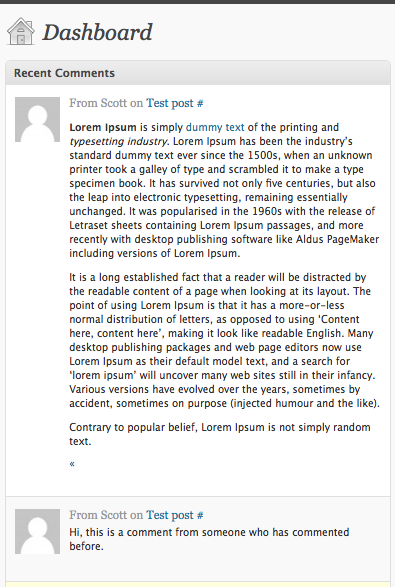
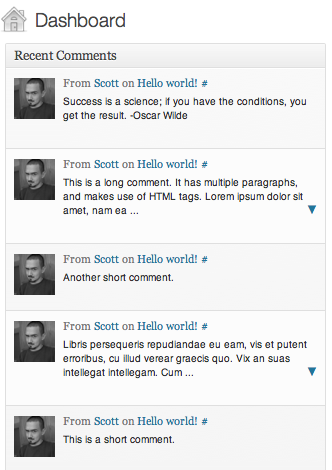
Release v1.5:
* Change characters used to expand/collapse excerpt
* Change positioning of expand/collapse link
* Enqueue CSS
* Enqueue JS
* Add `register_styles()`, enqueue_admin_css()`, `enqueue_admin_js()`
* Remove `add_css()`, `add_js()`
* Add support for localization
* Add .pot
* No longer hide the ellipsis
* Hook 'load-index.php' action to initialize plugin rather than checking pagenow
* Add `version()` to return plugin version
* Minor code reformatting (spacing)
* Note compatibility through WP 3.3+
* Drop support for versions of WP older than 3.1
* Update screenshots (now based on WP 3.3)
* Add link to plugin directory page to readme.txt
* Update copyright date (2012)

diff --git a/assets/admin.js b/assets/admin.js
@@ -1,0 +1,9 @@
+if (jQuery) {
+	jQuery(document).ready(function($) {
+		$('.c2c_edrc_more a').show();
+		$('.c2c_edrc_more a, .c2c_edrc_less a').click(function(e) {
+			$(this).closest('.c2c_edrc').find('div.excerpt-short, div.excerpt-full').toggle();
+			e.preventDefault();
+		})
+	});
+}

diff --git a/assets/admin.css b/assets/admin.css
@@ -1,0 +1,4 @@
+#the-comment-list .comment-item blockquote .excerpt-full p { display:block; margin:0 0 1em; }
+.c2c_edrc { display:block; position:relative;}
+.c2c_edrc_more { display:none; }
+.c2c_edrc_more, .c2c_edrc_less { display:block;text-align:center;float:right; }

diff --git a/expandable-dashboard-recent-comments.php b/expandable-dashboard-recent-comments.php
@@ -2,17 +2,19 @@
 /**
  * @package Expandable_Dashboard_Recent_Comments
  * @author Scott Reilly
- * @version 1.3.1
+ * @version 1.5
  */
 /*
 Plugin Name: Expandable Dashboard Recent Comments
-Version: 1.3.1
+Version: 1.5
 Plugin URI: http://coffee2code.com/wp-plugins/expandable-dashboard-recent-comments/
 Author: Scott Reilly
-Author URI: http://coffee2code.com
+Author URI: http://coffee2code.com/
+Text Domain: expandable-dashboard-recent-comments
+Domain Path: /lang/
 Description: Adds the ability to do in-place expansion of comment excerpts on the admin dashboard 'Recent Comments' widget to view full comments.
 
-Compatible with WordPress 2.6+, 2.7+, 2.8+, 2.9+, 3.0+, 3.1+, 3.2+.
+Compatible with WordPress 3.1+, 3.2+, 3.3+
 
 =>> Read the accompanying readme.txt file for instructions and documentation.
 =>> Also, visit the plugin's homepage for additional information and updates.
@@ -24,7 +26,7 @@ TODO:
 */
 
 /*
-Copyright (c) 2009-2011 by Scott Reilly (aka coffee2code)
+Copyright (c) 2009-2012 by Scott Reilly (aka coffee2code)
 
 Permission is hereby granted, free of charge, to any person obtaining a copy of this software and associated documentation
 files (the "Software"), to deal in the Software without restriction, including without limitation the rights to use, copy,
@@ -44,42 +46,68 @@ if ( is_admin() && ! class_exists( 'c2c_ExpandableDashboardRecentComments' ) ) :
 class c2c_ExpandableDashboardRecentComments {
 	// This just defines the default config. Values can be filtered via the filter 'c2c_expandable_dashboard_recent_comments_config'
 	public static $config = array(
-		'remove-ellipsis' => false,
-		'more-text' => ' &raquo;',
-		'less-text' => ' &laquo;'
+		'more-text' => '&#x25bc;',
+		'less-text' => '&#x25b2;'
 	);
+
+	/**
+	 * Returns version of the plugin.
+	 *
+	 * @since 1.5
+	 */
+	public static function version() {
+		return '1.5';
+	}
 
 	/**
 	 * Class constructor: initializes class variables and adds actions and filters.
 	 */
 	public static function init() {
-		global $pagenow;
-		if ( 'index.php' == $pagenow )
-			add_action( 'admin_init', array( __CLASS__, 'do_init' ) );
+		add_action( 'load-index.php', array( __CLASS__, 'do_init' ) );
 	}
 
 	/**
 	 * Initialize the config and register actions/filters
 	 */
 	public static function do_init() {
+		load_plugin_textdomain( 'c2c_edrc', false, basename( dirname( __FILE__ ) ) . DIRECTORY_SEPARATOR . 'lang' );
 		self::$config = apply_filters( 'c2c_expandable_dashboard_recent_comments_config', self::$config );
-		add_action( 'admin_print_styles',         array( __CLASS__, 'add_css' ) );
-		add_action( 'admin_print_footer_scripts', array( __CLASS__, 'add_js' ) );
+
+		// Hook the comment excerpt to do our magic
 		add_filter( 'comment_excerpt',            array( __CLASS__, 'expandable_comment_excerpts' ) );
+		// Enqueues JS for admin page
+		add_action( 'admin_enqueue_scripts',      array( __CLASS__, 'enqueue_admin_js' ) );
+		// Register and enqueue styles for admin page
+		self::register_styles();
+		add_action( 'admin_enqueue_scripts',      array( __CLASS__, 'enqueue_admin_css' ) );
 	}
 
 	/**
-	 * Echoes the CSS for this plugin within style tags
+	 * Registers styles.
 	 *
+	 * @since 1.5
 	 */
-	public static function add_css() {
-		echo <<<CSS
-		<style type="text/css">
-		#the-comment-list .comment-item blockquote .excerpt-full p { display:block; margin:1em 0; }
-		#dashboard_recent_comments .excerpt-short a { display:none; }
-		</style>
+	public static function register_styles() {
+		wp_register_style( __CLASS__, plugins_url( 'assets/admin.css', __FILE__ ) );
+	}
 
-CSS;
+	/**
+	 * Enqueues stylesheets.
+	 *
+	 * @since 1.5
+	 */
+	public static function enqueue_admin_css() {
+		wp_enqueue_style( __CLASS__ );
+	}
+
+	/**
+	 * Enqueues JS.
+	 *
+	 * @since 1.5
+	 */
+	public static function enqueue_admin_js() {
+		wp_enqueue_script( 'jquery' );
+		wp_enqueue_script( __CLASS__, plugins_url( 'assets/admin.js', __FILE__ ), array( 'jquery' ), self::version(), true );
 	}
 
 	/**
@@ -90,34 +118,11 @@ CSS;
 	 * @return string The class
 	 */
 	private static function get_comment_class( $comment_id = null ) {
-		if ( !$comment_id ) {
+		if ( ! $comment_id ) {
 			global $comment;
 			$comment_id = $comment->comment_ID;
 		}
 		return "excerpt-$comment_id";
-	}
-
-	/**
-	 * Echoes the JS for this plugin within script tags
-	 *
-	 * @since 1.3
-	 */
-	public static function add_js() {
-			echo <<<JS
-		<script type="text/javascript">
-		if (jQuery) {
-			jQuery(document).ready(function($) {
-				$('.excerpt-ellipsis').hide();
-				$('#dashboard_recent_comments div.excerpt-short a').show();
-				$('#dashboard_recent_comments div.excerpt-short a, #dashboard_recent_comments div.excerpt-full a').click(function() {
-					$(this).parent().parent().find('div.excerpt-short, div.excerpt-full').toggle();
-					return false;
-				})
-			});
-		}
-		</script>
-
-JS;
 	}
 
 	/**
@@ -129,15 +134,29 @@ JS;
 	public static function expandable_comment_excerpts( $excerpt ) {
 		global $comment;
 		if ( substr( $excerpt, -3 ) == '...' ) {
-			$body = apply_filters( 'comment_text', apply_filters( 'get_comment_text', $comment->comment_content ), '40' );
-			$class = self::get_comment_class( $comment->comment_ID );
-			$extended = self::$config['remove-ellipsis'] ? '<span class="excerpt-ellipsis">...</span>' : ''; // Will only be seen if JS is disabled
-			$extended .= "<div class='{$class}-short excerpt-short'>" .
-				( self::$config['remove-ellipsis'] ? substr( $excerpt, 0, -3 ) : $excerpt ) .
-				"<a href='#' title='" . __( 'Show full comment' ) . "'>" . self::$config['more-text'] . '</a></div>' .
-				"<div class='{$class}-full excerpt-full' style='display:none;'>" .
-				$body . 
-				" <a href='#' title='" . __( 'Show excerpt' ) . "'>" . self::$config['less-text'] . '</a></div>';
+			$body       = apply_filters( 'comment_text', apply_filters( 'get_comment_text', $comment->comment_content ), '40' );
+			$class      = self::get_comment_class( $comment->comment_ID );
+//			$ellipsis   = self::$config['remove-ellipsis'] ? '<span class="excerpt-ellipsis">&hellip;</span>' : '';
+//			$_excerpt   = self::$config['remove-ellipsis'] ? substr( $excerpt, 0, -3 ) : $excerpt;
+			$more       = self::$config['more-text'];
+			$more_title = __( 'Show full comment', 'c2c_edrc' );
+			$less       = self::$config['less-text'];
+			$less_title = __( 'Show excerpt', 'c2c_edrc' );
+
+			$extended = <<<HTML
+			<div class='c2c_edrc'>
+				<div class='{$class}-short excerpt-short'>
+					$excerpt
+					<div class='c2c_edrc_more'><a href='#' title='{$more_title}'>{$more}</a></div>
+				</div>
+				<div class='{$class}-full excerpt-full' style='display:none;'>
+					$body
+					<div class='c2c_edrc_less'><a href='#' title='{$less_title}'>{$less}</a></div>
+				</div>
+			</div>
+
+HTML;
+
 			$excerpt = preg_replace( '/\.\.\.$/', $excerpt, $extended );
 		}
 		return $excerpt;
